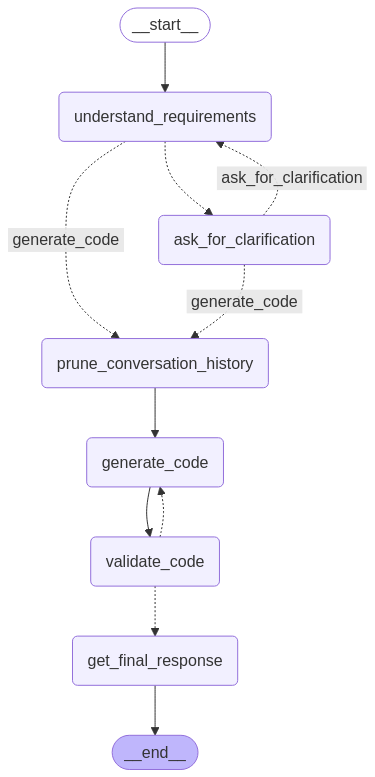
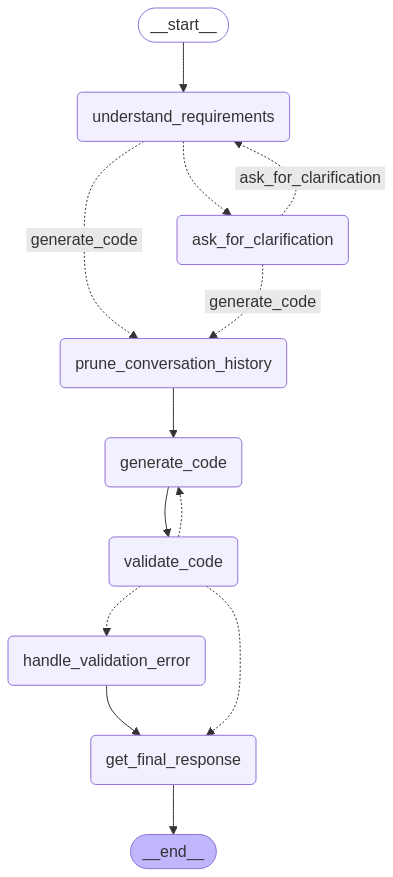
add validation attempt counter

diff --git a/agents/langgraph_agents.py b/agents/langgraph_agents.py
@@ -66,6 +66,8 @@ class State(TypedDict):
     component_data: dict[str, str]
     force_generate: bool
     validation_feedback:str
+    validation_attempts: int
+    status: str
 
 
 def prune_conversation_history(state: State):
@@ -179,6 +181,7 @@ Fix the code to address these issues and ensure it meets the user's request:
 
 def validate_code(state:State):
     component_data= state.get("component_data", {})
+    validation_attempts= state.get("validation_attempts", 0)
     system_prompt=f"""
 Act as a code reviewer skilled in Frontend development. Your task is to review the following code:
 ## INSTALL SCRIPT ##
@@ -198,10 +201,12 @@ Ensure that:
 If the code meets all the above criteria, respond with "yes" only. 
 If it does not, respond with "no" and provide a brief explanation of the issues, clearly explaining how to fix."""
     messages=[SystemMessage(content=system_prompt)]
-    print("--- Code Review In Progress ---")
+    print(f"--- Code Review In Progress ---(Attempt {validation_attempts}/3)")
     response=llm.invoke(messages)
+    validation_attempts+=1
     return {
         "validation_feedback": response.content,
+        "validation_attempts": validation_attempts,
     }
 
 
@@ -244,13 +249,22 @@ Act as a UI designer. Ask a series of follow up questions to gather more informa
         "force_generate": force_generate,
     }
 
+def handle_validation_error(state: State):
+    """
+    Prevent infinite loops by limiting the number of validation attempts and returning the response after 3 attemps
+    """
+    return {
+        "status":"validation_failure"
+    }
 
 def get_final_response(state: State):
     component_result = state.get("component_data", {})
     if component_result:
         output = "\n".join(component_result.values())
         print("\n--- Generated Component ---")
-        print(output)
+        return {
+            "status":"success"
+        }
 
 
 def route_message(state: State):
@@ -269,6 +283,10 @@ def route_validation(state:State):
     """
     Route the message to the appropriate function based on the state
     """
+    validation_attempts=state.get("validation_attempts", 0)
+    if validation_attempts >= 3 and "yes" not in state["validation_feedback"].lower():
+        print("Validation failed after 3 attempts, routing to handle_validation_error")
+        return "handle_validation_error"
     if "yes" in state["validation_feedback"].lower():
         print("Code Review passed, routing to get_final_response")
         return "get_final_response"
@@ -284,6 +302,7 @@ builder.add_node("get_final_response", get_final_response)
 builder.add_node("ask_for_clarification", ask_for_clarification)
 builder.add_node("prune_conversation_history", prune_conversation_history)
 builder.add_node("validate_code", validate_code)
+builder.add_node("handle_validation_error", handle_validation_error)
 
 
 builder.add_edge(START, "understand_requirements")
@@ -309,12 +328,14 @@ builder.add_conditional_edges(
     "validate_code", route_validation, {
         "get_final_response": "get_final_response",
         "generate_code":"generate_code",
+        "handle_validation_error": "handle_validation_error",
     }
 )
 builder.add_edge("generate_code", "validate_code")
 builder.add_edge("prune_conversation_history", "generate_code")
+builder.add_edge("handle_validation_error", "get_final_response")
 graph = builder.compile()
-# display_graph(graph, "graph.png")
+display_graph(graph, "graph.png")
 
 
 # Example of running the graph
@@ -329,11 +350,15 @@ def run_ui_alchemy():
         "user_input": "",
         "force_generate": False,
         "validation_feedback": "",
+        "validation_attempts": 0,
+        "status":""
     }
 
     # Run the graph
     result = graph.invoke(initial_state)
-
+    # Display status
+    print("\n--- Graph Execution Result ---")
+    print("Status:", result["status"])
     # Display the result
     if "component_data" in result:
         print("\n--- Generated Component ---")
@@ -344,5 +369,5 @@ def run_ui_alchemy():
         print(f"Code: {component['code']}")
 
 
-if __name__ == "__main__":
-    run_ui_alchemy()
+# if __name__ == "__main__":
+    # run_ui_alchemy()

diff --git a/README.md b/README.md
@@ -18,7 +18,7 @@ This project is in an experimental phase. I'm currently exploring:
 - [config](./config/) Configuration for Azure AI services
 - [utils](./config/): Utility functions for file handling and logging
 
-### Conversation Flow:
+### Azure AI Conversation Flow:
 
 ```mermaid
 flowchart TD
@@ -52,6 +52,6 @@ flowchart TD
     P --> C
 ```
 
-### Langgraph Graph (so far):
+### LangGraph Graph (so far):
 
 <img src='./graph.png'>
